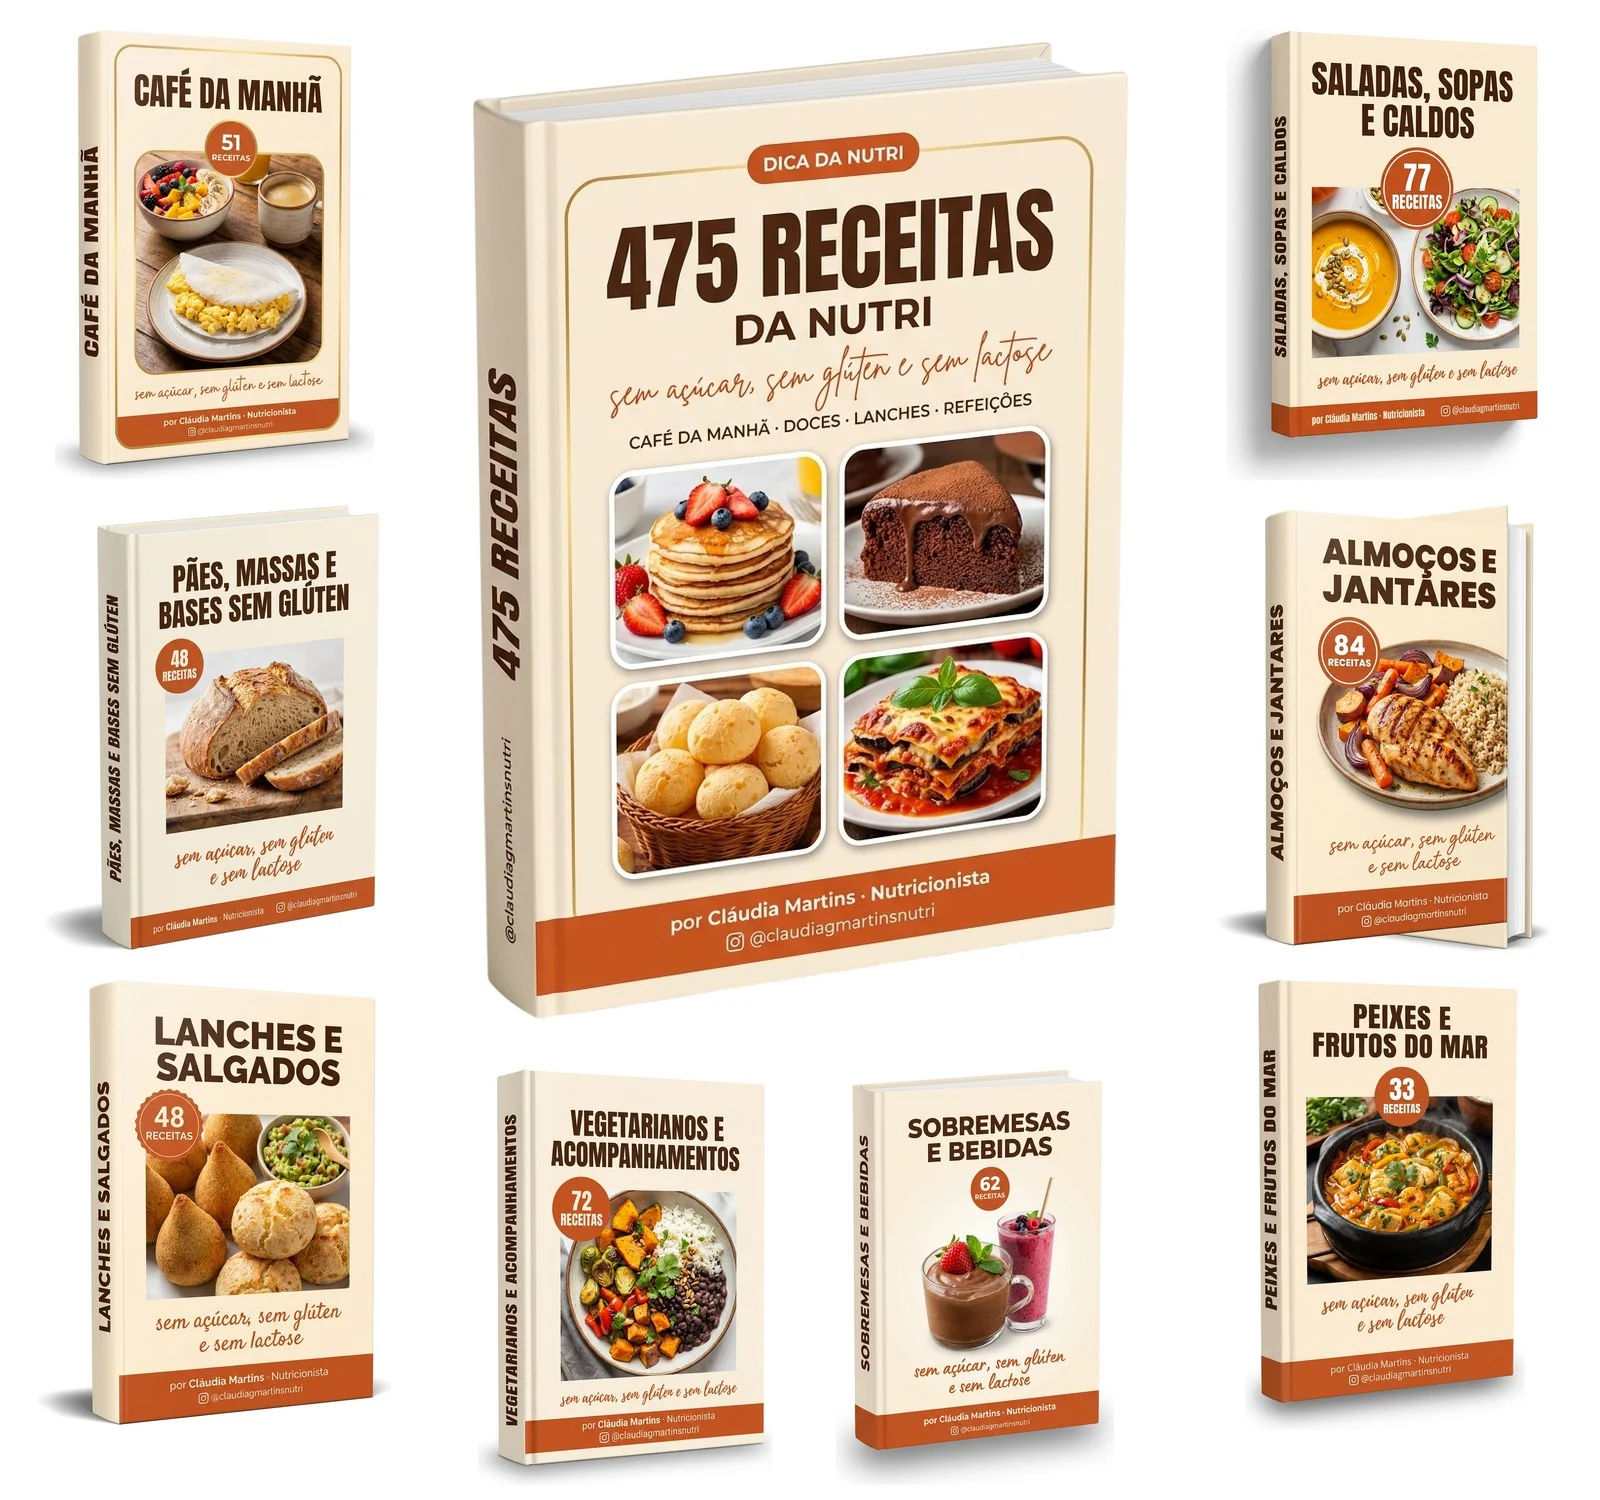
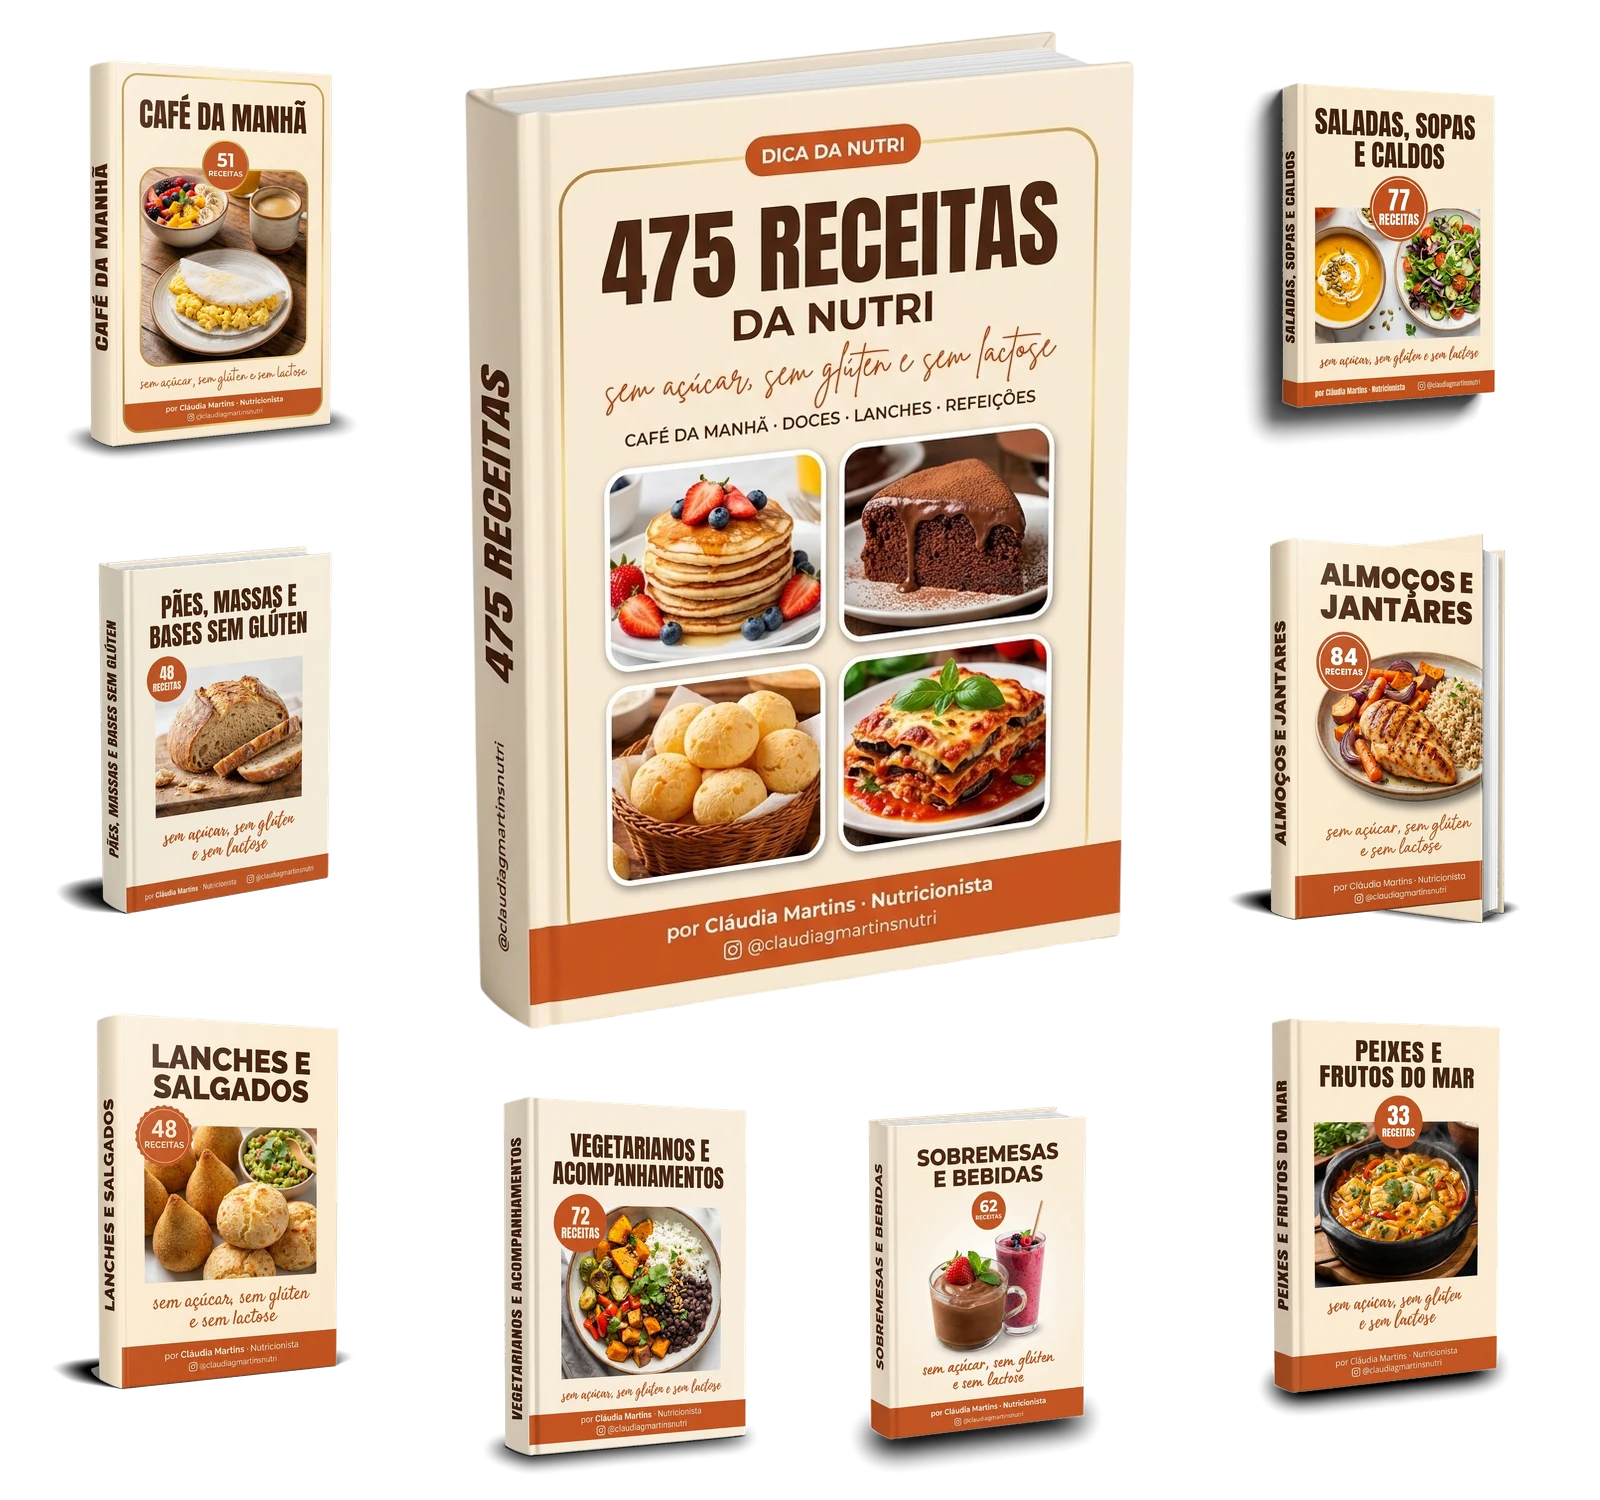
LP: imagem da coleção com fundo transparente
Claude-Session: https://claude.ai/code/session_01CFX4Cv1hh5mZiMCKXAkGfk

diff --git a/index.html b/index.html
@@ -389,7 +389,7 @@ src="https://www.facebook.com/tr?id=855341530974695&ev=PageView&noscript=1"
   <div class="container">
     <div class="more-box">
       <h2>+ 467 OUTRAS receitas incríveis da Nutri Cláudia!</h2>
-      <img class="showcase" src="img/colecao-475.webp" width="1600" height="1500" loading="lazy" alt="Coleção de e-books de receitas da nutricionista Cláudia Martins">
+      <img class="showcase" src="img/colecao-475.webp?v=2" width="1600" height="1500" loading="lazy" alt="Coleção de e-books de receitas da nutricionista Cláudia Martins">
       <p class="lead">Divididas em categorias completas:</p>
       <div class="pills">
         <span class="pill">Café da Manhã (51 receitas)</span>
